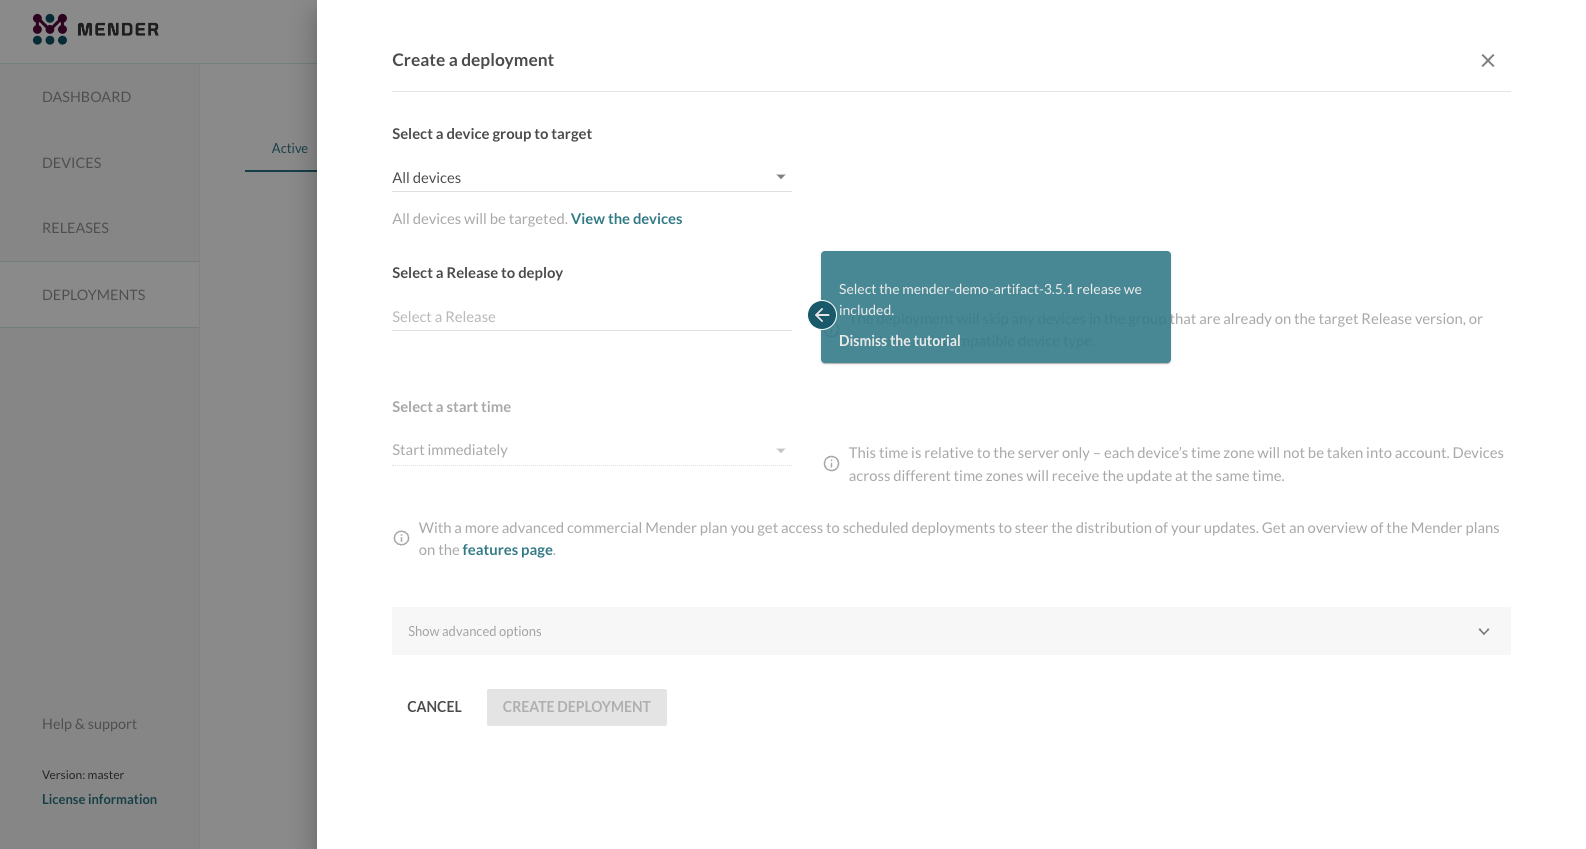
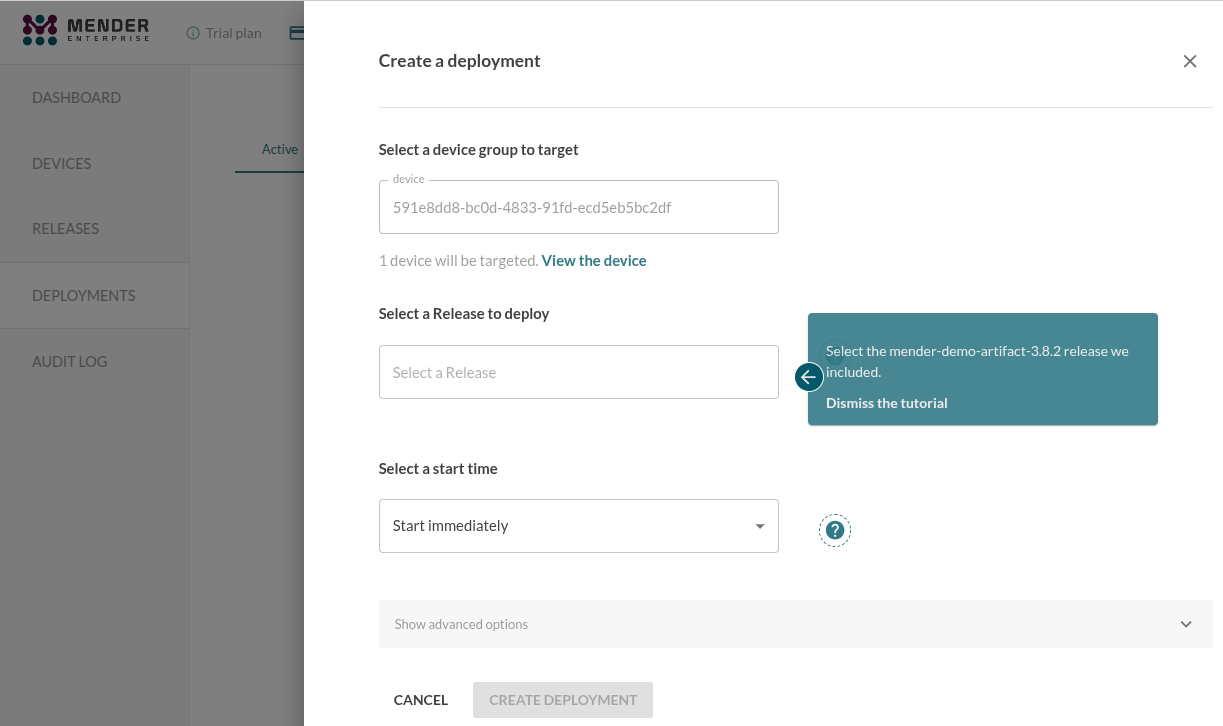
doc: Update on-boarding documentation
Remove mention of `updating a docker container` from the overview as
we no longer support it.
Update deploy an application update section to remove selecting a device
as this is pre-selected in the latest version.

Ticket: MEN-8318
Changelog: none

diff --git a/01.Get-started/02.Deploy-an-application-update/docs.md b/01.Get-started/02.Deploy-an-application-update/docs.md
@@ -25,11 +25,7 @@ In the Device information view for the device you just connected, select **Creat
 
 ![create a deployment for this device](device_actions_create.png)
 
-This will start the deployment wizard. The first step is to **Select a device group
-to target**. As we have not yet created any specific groups the only
-option presented should be **All devices**.
-
-![create a deployment](create_deployment_group.png)
+This will start the deployment wizard. As we have only one device connected the **Select a device group to target** should be automatically filled in with the device ID. In this case the first step is to **Select a Release to deploy**.
 
 There is already a demo Artifact available the first time you
 use hosted Mender, for the purposes of this tutorial. It contains a small web server you will run on your device.

diff --git a/01.Get-started/01.Preparation/docs.md b/01.Get-started/01.Preparation/docs.md
@@ -11,7 +11,6 @@ installing Mender on a device and deploying:
 
 * a simple *Application* update
 * an *Operating System* update.
-* a *Docker container* update
 
 To get started testing Mender, create a hosted Mender account by
 [signing up here](https://mender.io/signup?target=_blank).
